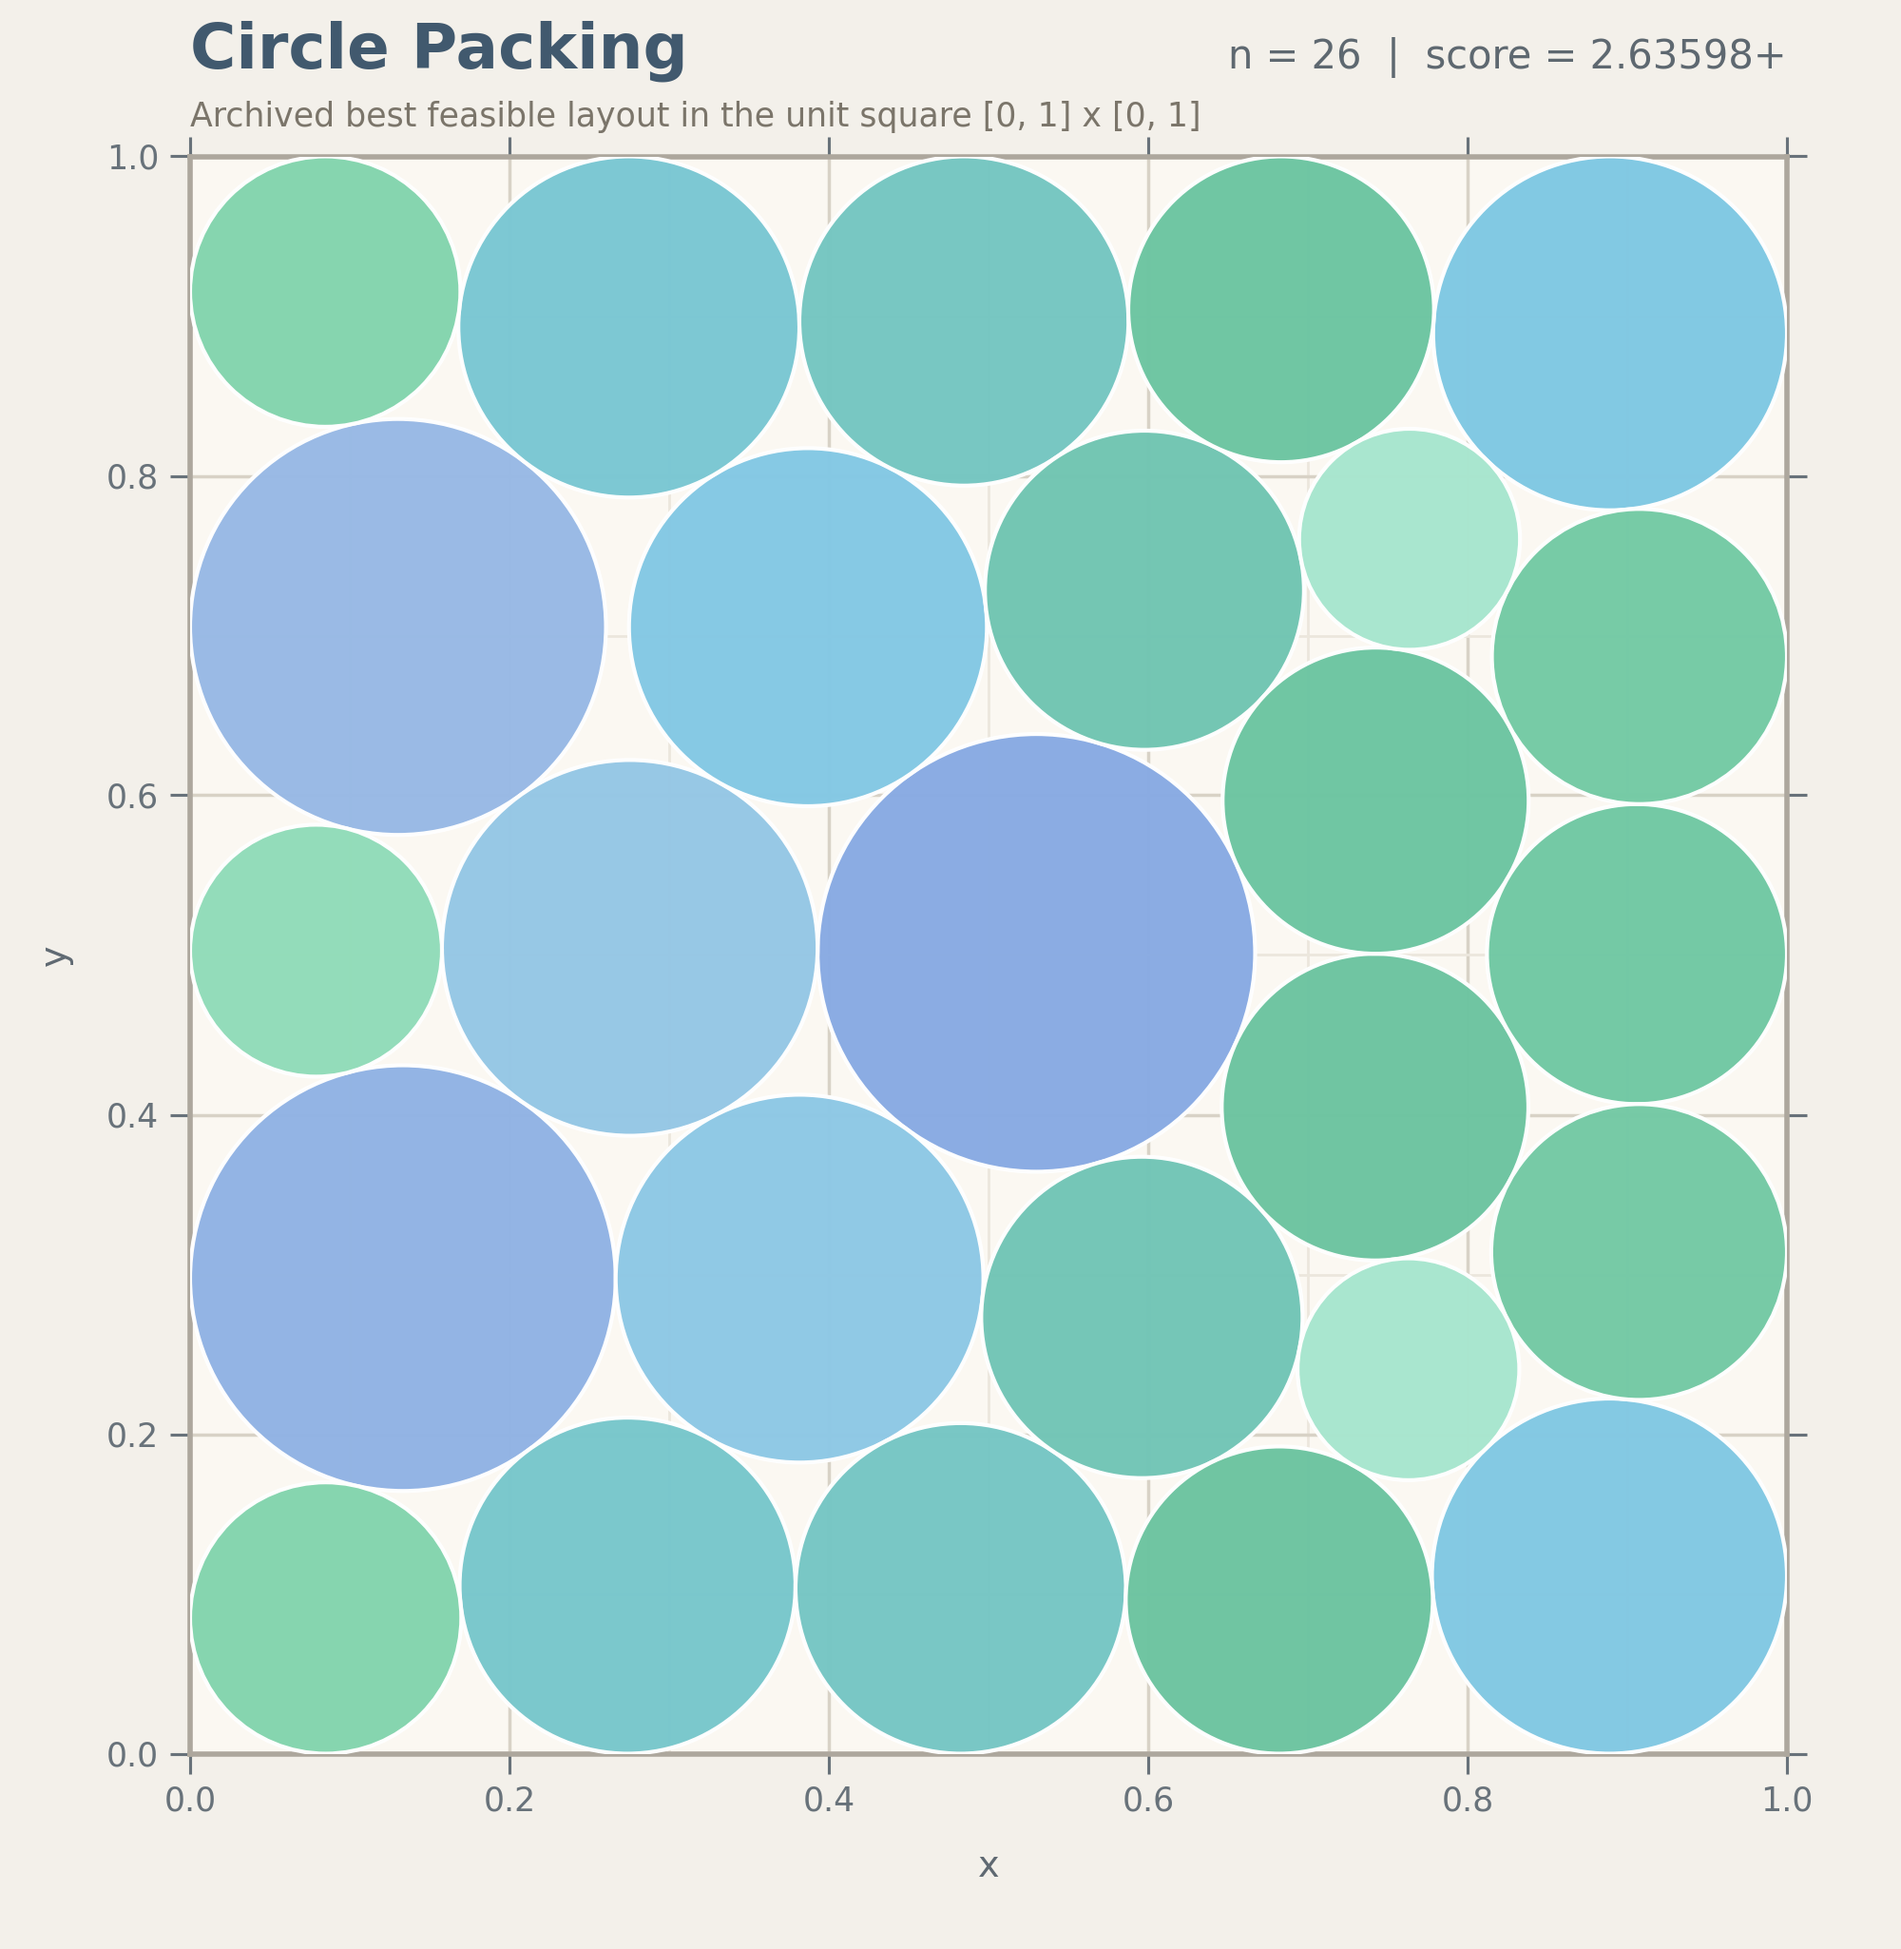
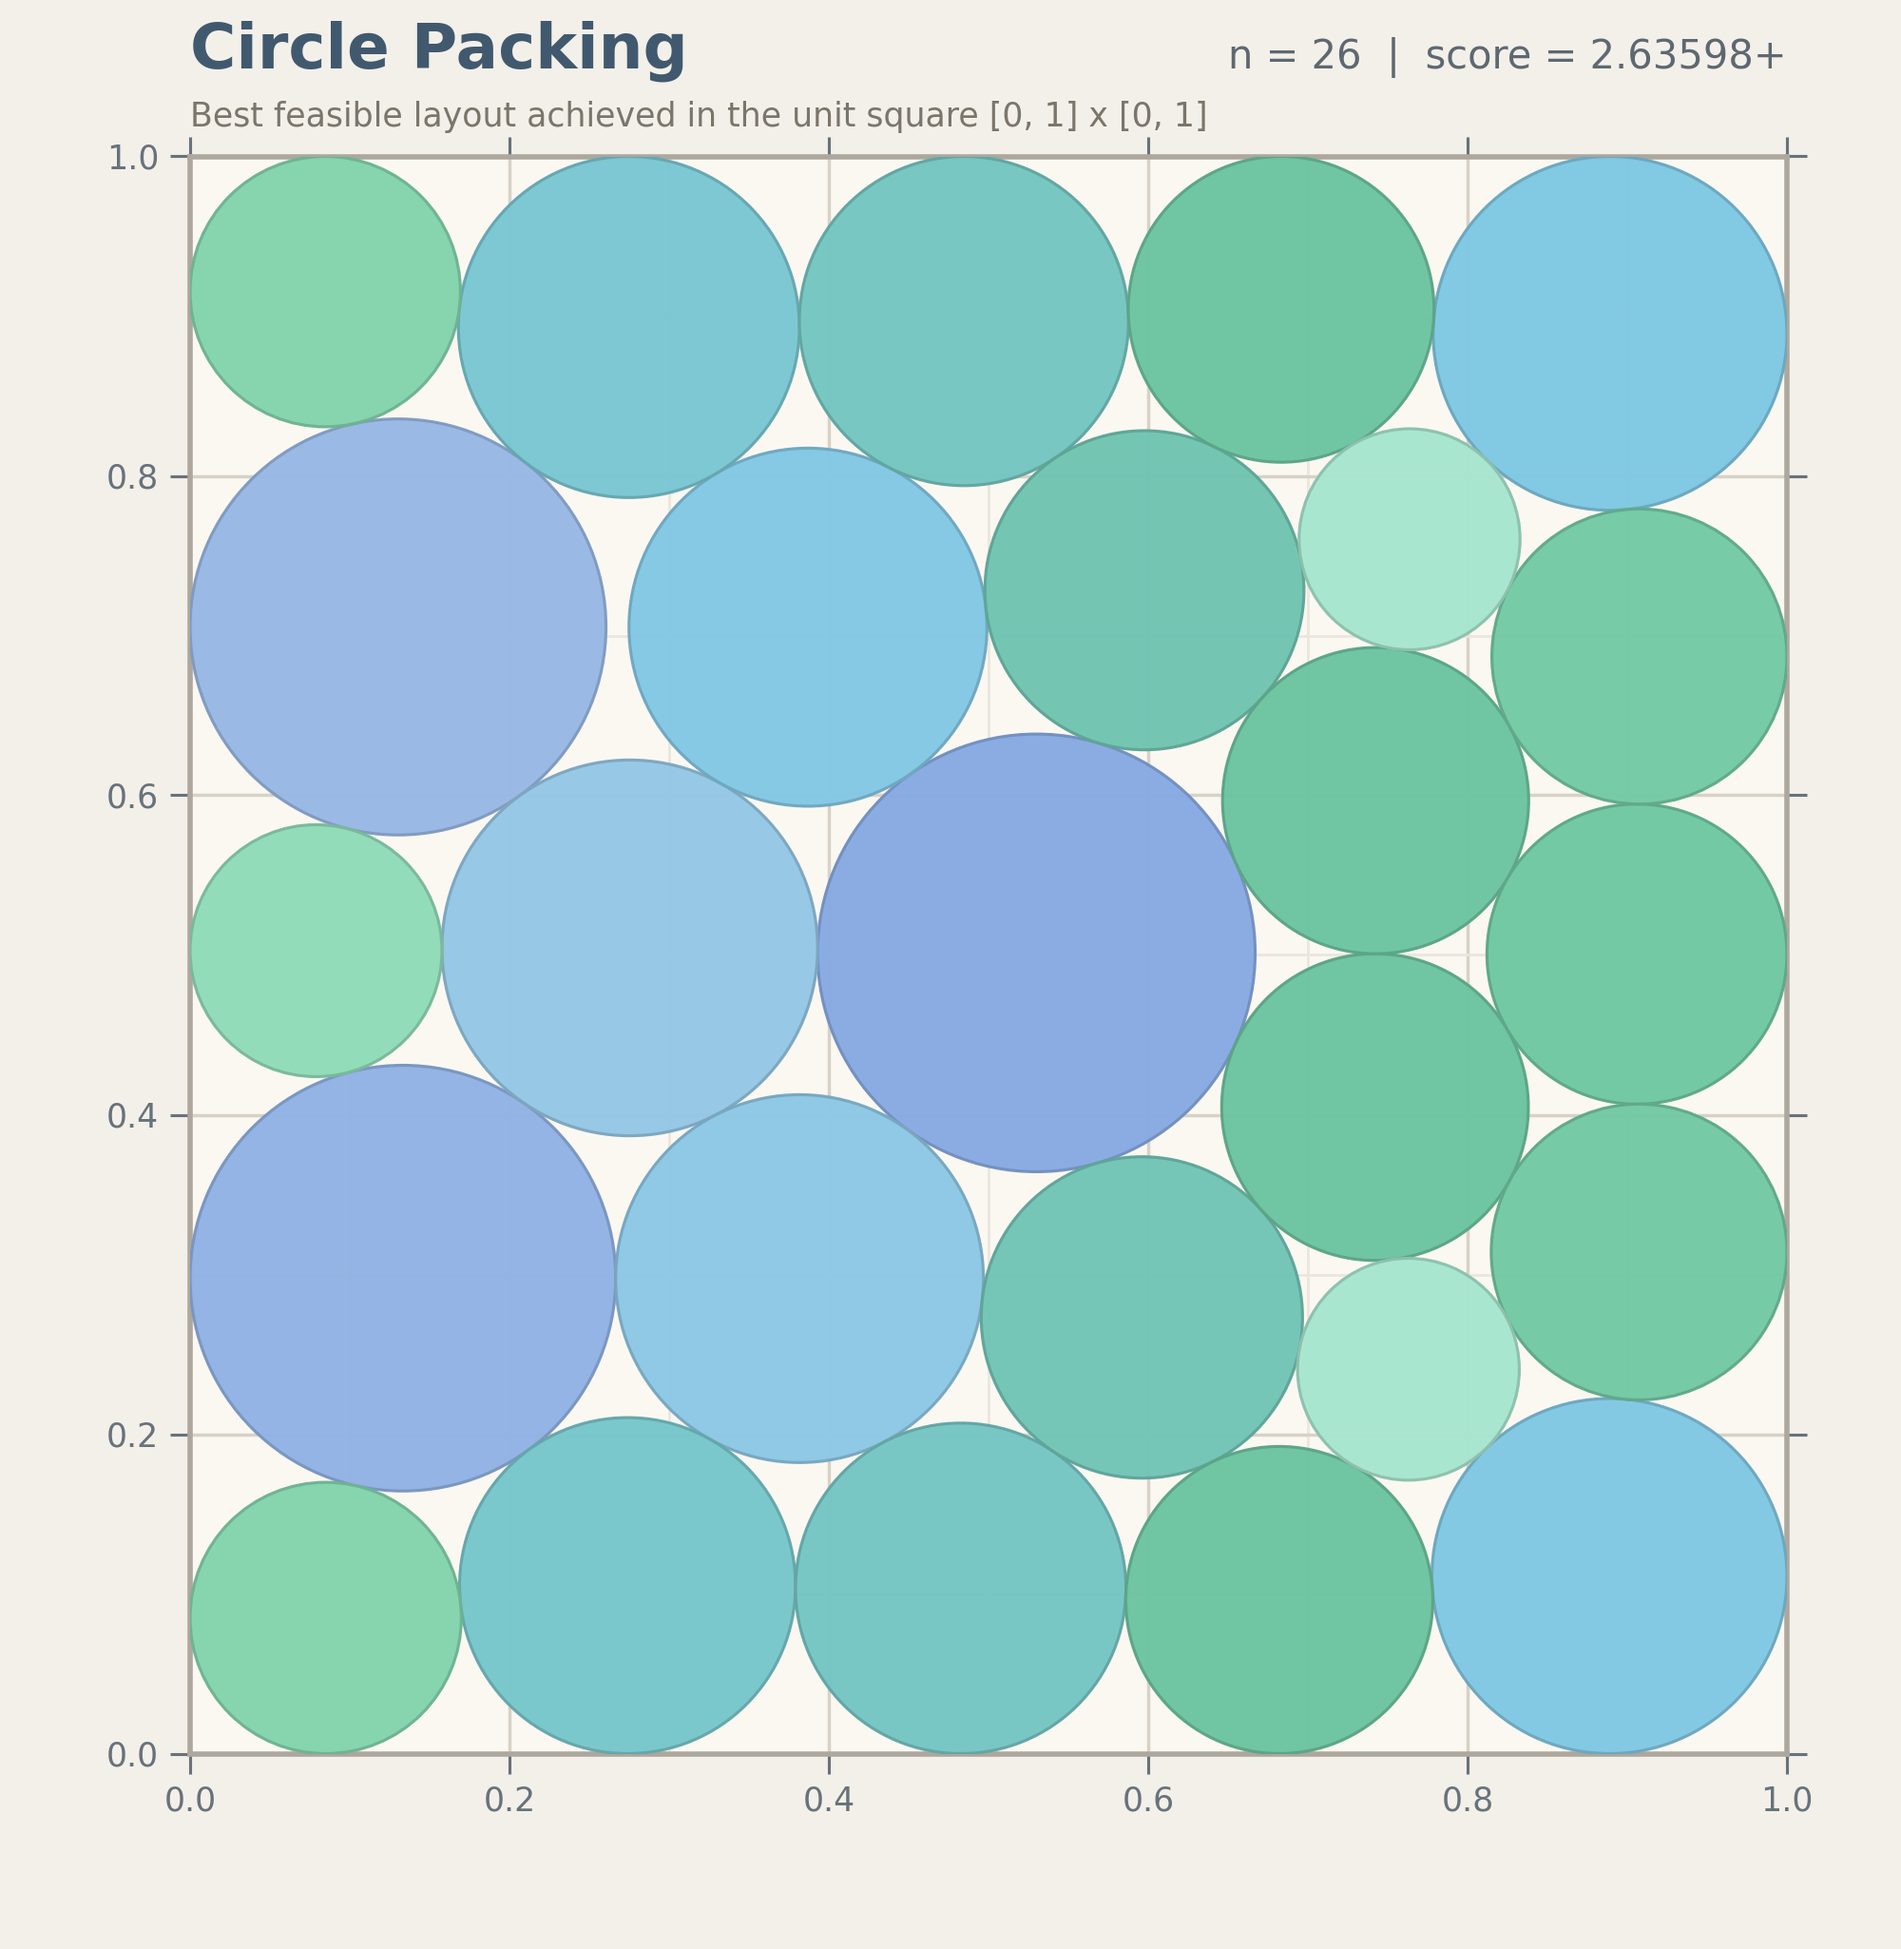
Polish circle packing figure styling

diff --git a/examples/circle_packing/render.py b/examples/circle_packing/render.py
@@ -1,5 +1,5 @@
 #!/usr/bin/env python3
-"""Render the archived circle packing result with a tighter, axis-based layout."""
+"""Render the best circle packing result with a tighter, axis-based layout."""
 
 from __future__ import annotations
 
@@ -45,6 +45,12 @@ CIRCLE_COLORS = [
     "#a8e6cf",
     "#6dc5a2",
 ]
+
+
+def darken_hex(hex_color: str, factor: float = 0.84) -> tuple[float, float, float, float]:
+    """Return a slightly darker RGBA edge color derived from a hex fill."""
+    rgb = tuple(int(hex_color[i : i + 2], 16) / 255.0 for i in (1, 3, 5))
+    return tuple(channel * factor for channel in rgb) + (0.9,)
 
 
 def parse_args() -> argparse.Namespace:
@@ -106,19 +112,16 @@ def render_packing(data_path: Path, output_path: Path, dpi: int) -> None:
             (float(x), float(y)),
             float(radius),
             facecolor=color,
-            edgecolor=(1.0, 1.0, 1.0, 0.68),
-            linewidth=1.2,
+            edgecolor=darken_hex(color),
+            linewidth=0.9,
             alpha=0.98,
             zorder=3,
         )
         ax.add_patch(circle)
 
-    ax.set_xlabel("x", fontsize=11, color="#5f6972", labelpad=10)
-    ax.set_ylabel("y", fontsize=11, color="#5f6972", labelpad=10)
-
     fig.text(0.10, 0.965, "Circle Packing", fontsize=19, fontweight="bold", color="#41596e")
     fig.text(0.94, 0.965, f"n = {len(radii)}  |  score = {sum_radii:.5f}+", ha="right", fontsize=12, color="#5e6870")
-    fig.text(0.10, 0.935, "Archived best feasible layout in the unit square [0, 1] x [0, 1]", fontsize=10, color="#7b756a")
+    fig.text(0.10, 0.935, "Best feasible layout achieved in the unit square [0, 1] x [0, 1]", fontsize=10, color="#7b756a")
 
     output_path.parent.mkdir(parents=True, exist_ok=True)
     fig.savefig(output_path, facecolor=fig.get_facecolor())
